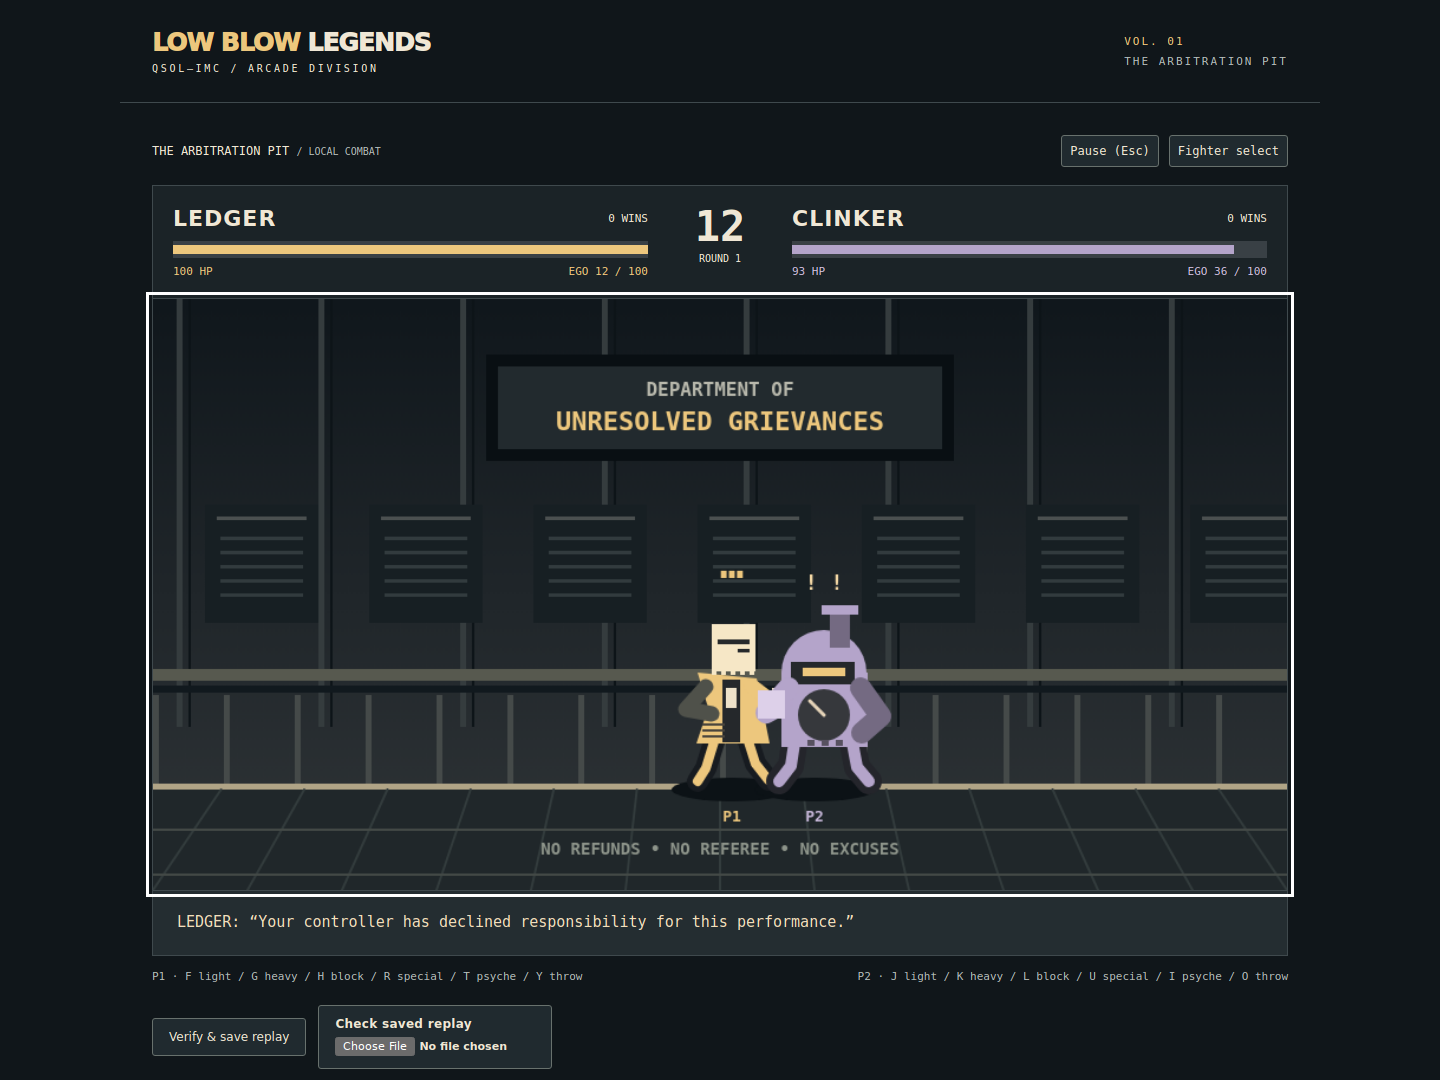
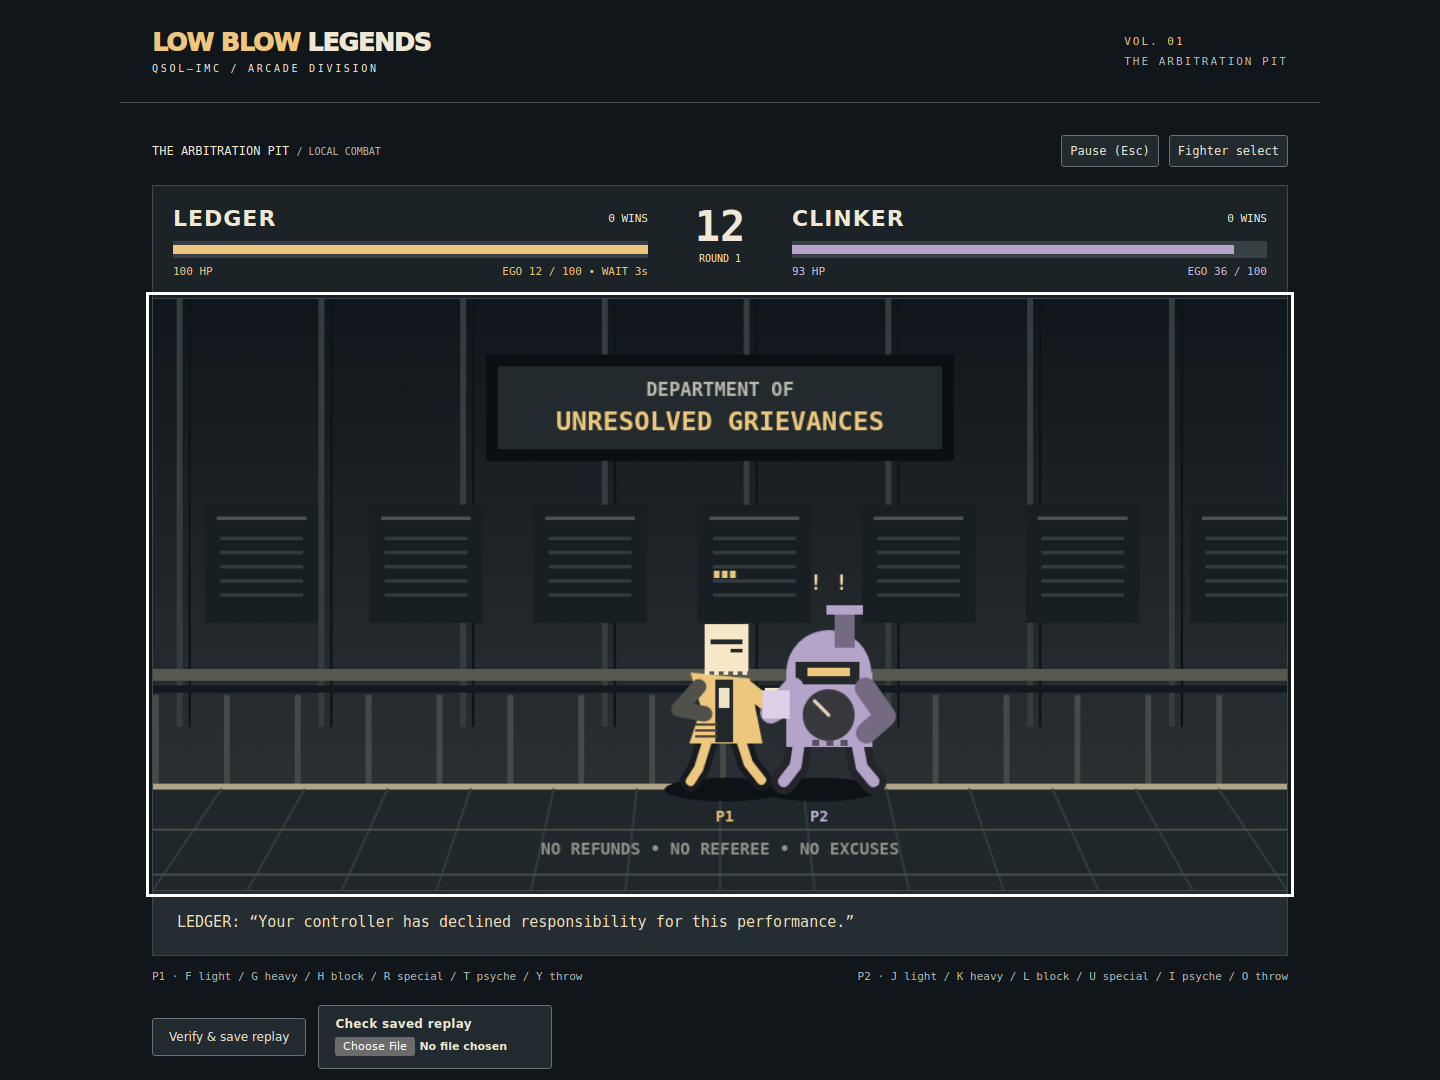
Keep collision separation integral and expose psyche cooldown

diff --git a/sw.js b/sw.js
@@ -1,6 +1,6 @@
 // Cache only this repository's known static runtime; never unrelated origin data.
 const PREFIX = 'lbl-arcade-' + self.registration.scope + '-';
-const CACHE = PREFIX + '1';
+const CACHE = PREFIX + '2';
 const FILES = ['./','./index.html','./style.css','./src/game/app.mjs','./src/game/content.mjs',
   './src/game/simulation.mjs','./src/game/render.mjs','./src/game/timing.mjs','./src/game/cpu.mjs'];
 const URLS = FILES.map(path=>new URL(path,self.registration.scope).href);

diff --git a/docs/LBL-001-EVIDENCE.md b/docs/LBL-001-EVIDENCE.md
@@ -13,14 +13,14 @@ The browser UI owns key remapping, pause/focus handling, help, subtitles, comfor
 | Command / check | Observed outcome |
 | --- | --- |
 | `npm ci --ignore-scripts` | Passed; exact test-only packages installed from lockfile |
-| `npm run verify` (Node 24.22.1) | Passed: structure/invariants, original asset hashes, replay SHA-256, **27 tests**, static staging |
+| `npm run verify` (Node 24.22.1) | Passed: structure/invariants, original asset hashes, replay SHA-256, **28 tests**, static staging |
 | `git diff --check` and module syntax check | Passed |
 | `npm run browser` | **Partial pass; exits nonzero** on WebKit host dependencies. Chromium full flow and Firefox parity/start/pause pass. No failure is skipped or converted to success. |
 | `npx playwright install-deps webkit` | Blocked: container rejects apt `setgroups`/`seteuid`; installation exits 100 |
 | Actual browser engines | Chromium 134.0.6998.35; Firefox 135.0 (Playwright 1.51.1) |
 | Visual inspection | Selection, active combat, victory and narrow layout captures; crouch-pose/collision alignment corrected during development |
 
-The complete local browser report, including the WebKit failure, is retained in [evidence/browser-report.json](evidence/browser-report.json). It records its actual runtime timestamp, ephemeral local test URL, performance samples and successful assertions. Firefox required `MOZ_DISABLE_CONTENT_SANDBOX=1` inside this isolated test container; this applies only to the test launch. CI retains **all three engines** on a pinned Ubuntu 24.04 host and does not ignore failure. Both jobs check out the actual PR head SHA. CI availability/results are stated separately in the PR, not assumed here.
+The complete local browser report, including the WebKit failure, is retained in [evidence/browser-report.json](evidence/browser-report.json). It records its actual runtime timestamp, ephemeral local test URL, performance samples and successful assertions. Firefox required `MOZ_DISABLE_CONTENT_SANDBOX=1` inside this isolated test container; this applies only to the test launch. CI retains **all three engines** on a pinned Ubuntu 24.04 host and does not ignore failure. Both jobs check out the actual PR head SHA. The first published head `8014c72d719cfb2a991e9125e5042f74b62d3735` passed both CI jobs, including WebKit 18.4 replay/start/pause ([run 40442689448](https://github.com/QSOLKCB/LOWBLOWLEGENDS/actions/runs/40442689448)). This verifies the supported host capability; final-head CI/review are tracked separately in the PR and must be repeated after these final audit corrections.
 
 Chromium assertions use actual DOM events and keyboard controls, not injected victory state: both players move, light attack damages, jump lands, psyche stuns/drains, pause freezes the digest, resume avoids catch-up, a two-round timeout victory displays, replay verifies/downloads, rematch clears score/health, blur clears held inputs, Tab exits, a remapped key attacks, offline reload runs, stored mappings persist, and the 390px layout has no horizontal overflow. Firefox checks the actual production module fixture, startup and Escape pause. KO/double KO, guard/throws, both specials, both psyche counterplays and combo confirmation are covered in the pure harness.
 
@@ -33,6 +33,8 @@ Chromium assertions use actual DOM events and keyboard controls, not injected vi
 - 30/60/144 Hz schedule tests produce identical normalized frame logs and final digest, including a press/release entirely between render frames.
 - 3,000-tick reflected/player-swapped regression checks fighter resources, motion, status and scores. Specific tests cover strike/strike double KO and simultaneous psyche/strike.
 - Pure-state immutability, malformed inputs/config, finite stun/cooldown, bounded queue/replay resources, timeout/draw cap and terminal-state idempotence pass.
+
+Final audit correction: mixed-parity collision midpoints now round toward stage centre, preserving integer coordinates and reflected-player symmetry. A targeted regression retains this case. The frozen replay bytes/digest are unchanged; no released ruleset or immutable fixture was rewritten. The HUD also distinguishes psyche cooldown from sufficient ego.
 
 This is a versioned deterministic guarantee in the tested scope, not a cryptographic replay attestation or an assertion about every platform. The preserved foundation kernel remains independent and retains its nine tests.
 
@@ -47,8 +49,8 @@ This is a versioned deterministic guarantee in the tested scope, not a cryptogra
 - DOM HUD scales with browser zoom; health has numerical labels and bars, fighters have P1/P2 labels. Optional collision overlay. Jokes have a dedicated area outside the fight. Reduced-motion preference is respected; flash/shake default off, with no full-screen flashing. No speech/audio exists to require a mute workaround.
 - The interface provides text alternatives and semantic menu/results, but combat is visual. No screen-reader or WCAG certification, broad assistive-technology study, controller, touch or physical keyboard ghosting verification is claimed. Human two-player playtesting remains necessary.
 - Browser network audit saw **zero external runtime requests**. Only project-scoped files/worker are fetched. No analytics, remote AI, accounts or advertising. Only validated key mappings use localStorage; caches contain runtime files. Replay import/export stays local and is user-triggered.
-- Production source totals **45,839 uncompressed bytes**, below a tested 100 kB budget. Six modules, HTML, CSS, worker; no runtime dependencies. Screenshots/test tools/fixtures/docs are excluded from staging.
-- Local 600-sample headless Chromium CPU simulation + Canvas-command microbenchmark: **0.10 ms median, 0.20 ms p95, 5.20 ms maximum**. This excludes presentation/GPU completion and is not a physical-device FPS benchmark. No physical display/frame-rate claim is made. Paused/unchanged state does not redraw every animation callback.
+- Production source totals **46,070 uncompressed bytes**, below a tested 100 kB budget. Six modules, HTML, CSS, worker; no runtime dependencies. Screenshots/test tools/fixtures/docs are excluded from staging.
+- Local 600-sample headless Chromium CPU simulation + Canvas-command microbenchmark: **0.10 ms median, 0.30 ms p95, 22.50 ms maximum**. This excludes presentation/GPU completion and is not a physical-device FPS benchmark. No physical display/frame-rate claim is made. Paused/unchanged state does not redraw every animation callback.
 
 ## Verified screenshots and pending gates
 

diff --git a/docs/MOVE_DATA.md b/docs/MOVE_DATA.md
@@ -14,7 +14,7 @@ All durations are 60 Hz combat ticks, excluding hitstop. Starting a move records
 | Ledger: Terms & concussions | 32 | 1 | 28 | 224 | 0 | 48 |
 | Clinker: Mandatory tutorial | 38 | 1 | 30 | 194 | 0 | 54 |
 
-Ledger walks 6 units/tick; Clinker walks 4. Jump starts at velocity 20, gravity 1; the integer arc lands after 41 ticks. There is no air steer during an attack. Automatic facing updates only in neutral; committed attacks can be crossed over. Grounded bodies push apart, including at walls, without slot priority.
+Ledger walks 6 units/tick; Clinker walks 4. Jump starts at velocity 20, gravity 1; the integer arc lands after 41 ticks. There is no air steer during an attack. Automatic facing updates only in neutral; committed attacks can be crossed over. Grounded bodies push apart, including at walls, without slot priority. Fractional collision midpoints round toward the stage centre, retaining integer coordinates and mirror symmetry.
 
 Both psyche-outs cost 50 ego, have 180-tick cooldown, can be blocked with either guard and can be interrupted throughout startup/recovery. Ledger additionally drains 20 opponent ego on success. Both need grounded startup and only reach 115 units above the attacker, so a correctly timed jump avoids them. Their different reach/startup/stun create different commitments. They alter avatars only.
 
